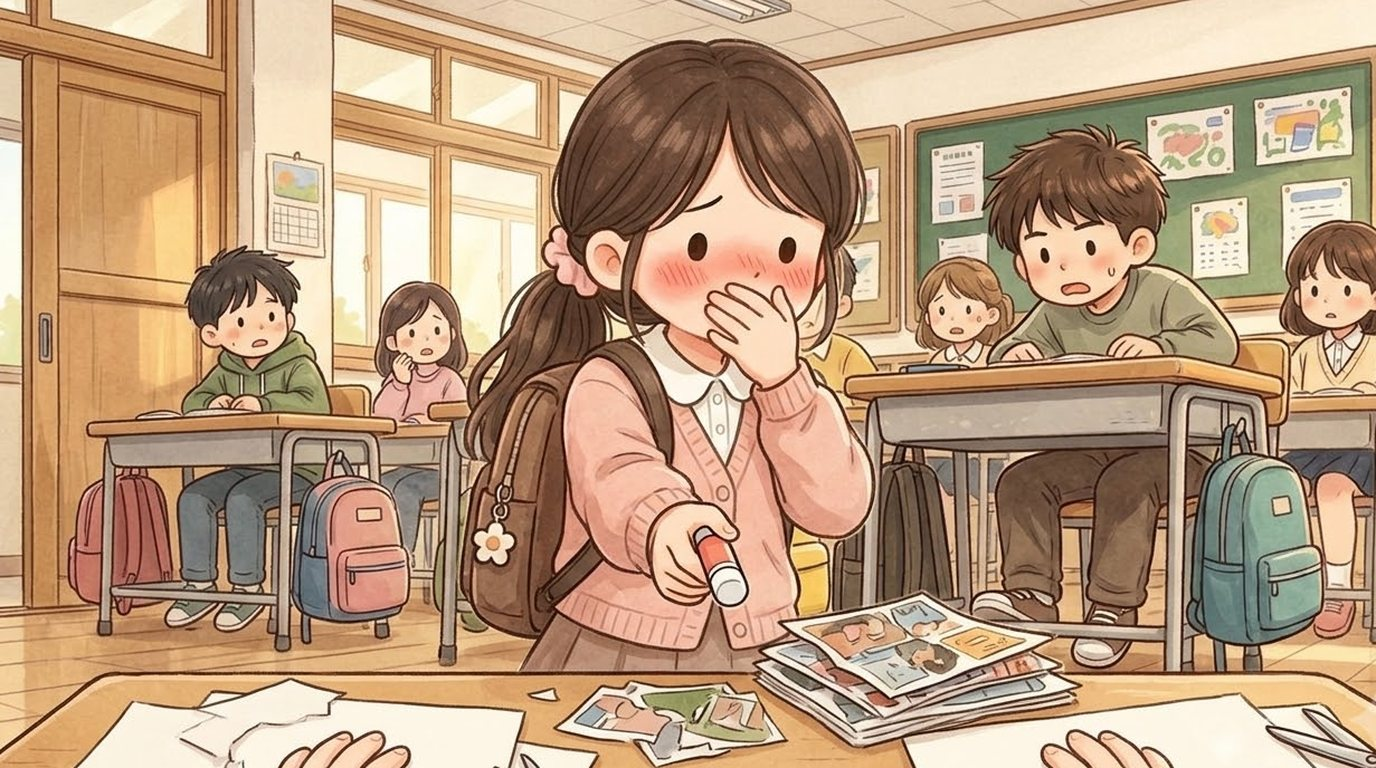
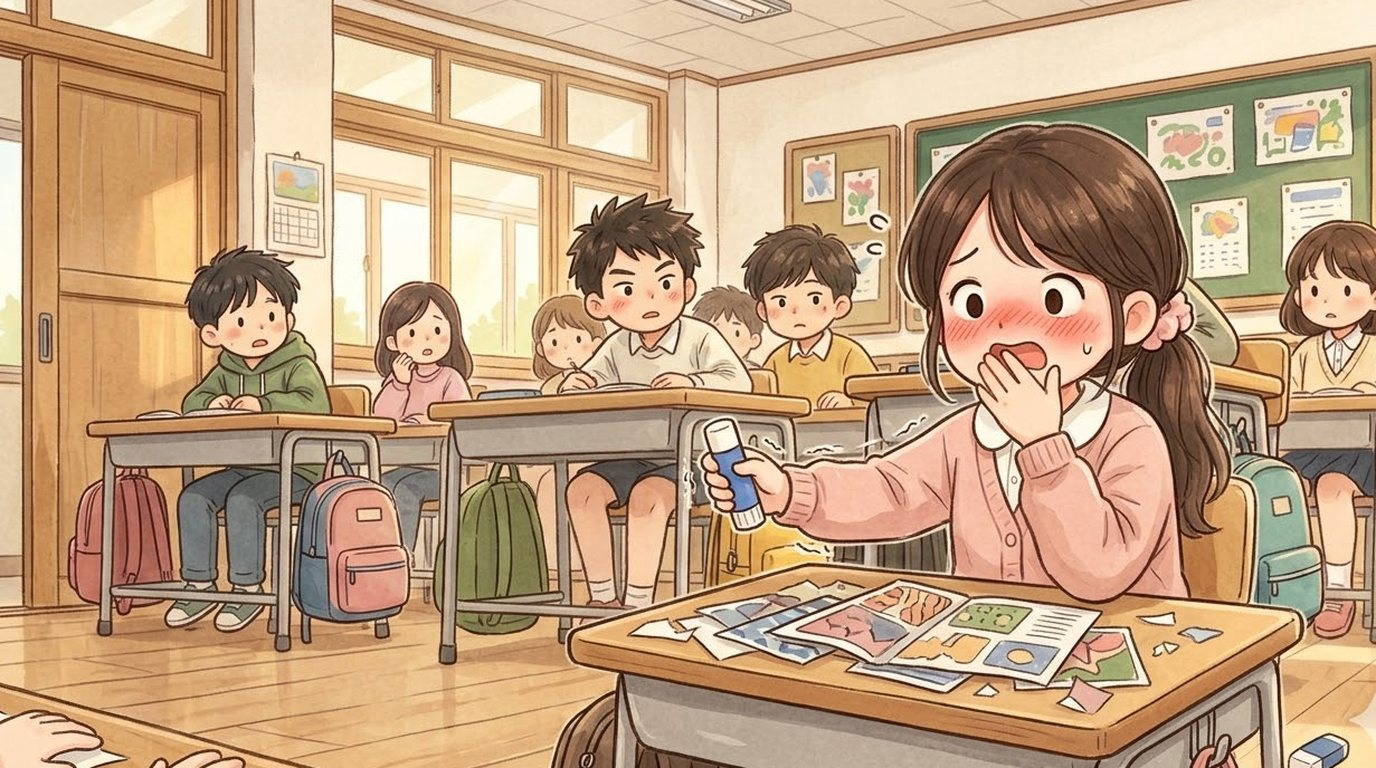
Yuna: 14 situation pictures for meetings 1-6 (pencil-case shop, poster group, chores, swings, eyes closed, reading) and redrawn highlight pictures for meetings 10 and 12 (no backpack in class or at break)

diff --git a/index.html b/index.html
@@ -119,14 +119,14 @@ body,button{word-break:keep-all;overflow-wrap:break-word}
 <div id="fader"></div>
 <script>
 // same address, newest version: if the page this phone has kept is older than the one online, fetch the new one and reopen
-const BUILD='1027193633';
+const BUILD='1027195552';
 try{fetch(location.pathname,{cache:'no-store'}).then(r=>r.text()).then(t=>{const m=t.match(/const BUILD='(\d+)'/);if(m&&m[1]!==BUILD&&sessionStorage.getItem('upd')!==m[1]){sessionStorage.setItem('upd',m[1]);fetch(location.pathname,{cache:'reload'}).then(()=>location.reload())}}).catch(()=>{})}catch(e){}
 </script>
-<script src="i18n.js?v=1027193633"></script>
-<script src="i18n_prologue_v2.js?v=1027193633"></script>
-<script src="day2/i18n_engine.js?v=1027193633"></script>
-<script src="day2/data.js?v=1027193633"></script>
-<script src="day3/data.js?v=1027193633"></script>
+<script src="i18n.js?v=1027195552"></script>
+<script src="i18n_prologue_v2.js?v=1027195552"></script>
+<script src="day2/i18n_engine.js?v=1027195552"></script>
+<script src="day2/data.js?v=1027195552"></script>
+<script src="day3/data.js?v=1027195552"></script>
 <script>
 // ---------- data ----------
 const MW=1672,MH=941,KID=180;
@@ -531,43 +531,43 @@ function pickHero(){const m=document.getElementById('modal'),c=document.getEleme
  c.innerHTML=`<h2>${tr('괴짜교실 반장되기')}</h2><p>${tr('말 한마디 못 하는 전학생,<br>반장 선거에 나가다.')}</p><p style="margin-top:14px">${tr('누구로 할까요?')}</p>${(()=>{const s=loadSave();return s&&s.day>=2&&s.mode===UI+'-'+LANG?`<p><button class="big" id="cont">${tr(s.day+'일차부터 이어 하기')}</button></p>`:''})()}<div class="pick heroes"><button data-h="hero_f"><img src="faces/hero_f_smile.jpg" alt="여자 주인공"></button><button data-h="hero_m"><img src="faces/hero_m_smile.jpg" alt="남자 주인공"></button></div>`;
  m.classList.add('on');{const cb=document.getElementById('cont');if(cb)cb.onclick=()=>{const s=loadSave();HERO=s.hero;Object.assign(HEART,s.heart||{});(s.found||[]).forEach(k=>FOUND.add(k));HEART_D1={...HEART};chime();(typeof contGame==='function'?contGame(s):startDay(Math.min(s.day,Object.keys(window.D3||{}).length?3:2)))}}c.querySelectorAll('.pick button').forEach(b=>b.onclick=()=>{HERO=b.dataset.h;m.classList.remove('on');chime();bgm('day');load('home_am');say([['nar','','이사 온 다음 날 아침. 아직 풀지 못한 상자들이 쌓여 있다.'],['think','sad','(오늘부터 새 학교야. 여기 말도 아직 서툰데…….)'],['think','smile','({m}한테 인사하고 학교 가야지.)']],morning)})}
 </script>
-<script src="day2/engine.js?v=1027193633"></script>
-<script src="day2/ep_minho.js?v=1027193633"></script>
-<script src="day2/i18n_meet.js?v=1027193633"></script>
-<script src="day2/meet.js?v=1027193633"></script>
-<script src="day2/ep_sua.js?v=1027193633"></script>
-<script src="day2/i18n_sua.js?v=1027193633"></script>
-<script src="day2/ep_hangyeol.js?v=1027193633"></script>
-<script src="day2/i18n_hangyeol.js?v=1027193633"></script>
-<script src="day2/ep_siwoo.js?v=1027193633"></script>
-<script src="day2/i18n_siwoo.js?v=1027193633"></script>
-<script src="day2/ep_haram.js?v=1027193633"></script>
-<script src="day2/i18n_haram.js?v=1027193633"></script>
-<script src="day2/ep_jiho.js?v=1027193633"></script>
-<script src="day2/i18n_jiho.js?v=1027193633"></script>
-<script src="day2/ep_hyeeun.js?v=1027193633"></script>
-<script src="day2/i18n_hyeeun.js?v=1027193633"></script>
-<script src="day2/ep_haneul.js?v=1027193633"></script>
-<script src="day2/i18n_haneul.js?v=1027193633"></script>
-<script src="day2/ep_junho.js?v=1027193633"></script>
-<script src="day2/i18n_junho.js?v=1027193633"></script>
-<script src="day2/ep_yuna.js?v=1027193633"></script>
-<script src="day2/i18n_yuna.js?v=1027193633"></script>
-<script src="day2/ep_yena.js?v=1027193633"></script>
-<script src="day2/i18n_yena.js?v=1027193633"></script>
-<script src="day2/ep_haeun.js?v=1027193633"></script>
-<script src="day2/i18n_haeun.js?v=1027193633"></script>
-<script src="day2/ep_youngmin.js?v=1027193633"></script>
-<script src="day2/i18n_youngmin.js?v=1027193633"></script>
-<script src="day2/ep_seah.js?v=1027193633"></script>
-<script src="day2/i18n_seah.js?v=1027193633"></script>
-<script src="day2/ep_jihoon.js?v=1027193633"></script>
-<script src="day2/i18n_jihoon.js?v=1027193633"></script>
-<script src="words_ja_ru.js?v=1027193633"></script>
-<script src="day2/mybag.js?v=1027193633"></script>
-<script src="day2/spots.js?v=1027193633"></script>
-<script src="day2/textfit.js?v=1027193633"></script>
-<script src="day2/tester.js?v=1027193633"></script>
+<script src="day2/engine.js?v=1027195552"></script>
+<script src="day2/ep_minho.js?v=1027195552"></script>
+<script src="day2/i18n_meet.js?v=1027195552"></script>
+<script src="day2/meet.js?v=1027195552"></script>
+<script src="day2/ep_sua.js?v=1027195552"></script>
+<script src="day2/i18n_sua.js?v=1027195552"></script>
+<script src="day2/ep_hangyeol.js?v=1027195552"></script>
+<script src="day2/i18n_hangyeol.js?v=1027195552"></script>
+<script src="day2/ep_siwoo.js?v=1027195552"></script>
+<script src="day2/i18n_siwoo.js?v=1027195552"></script>
+<script src="day2/ep_haram.js?v=1027195552"></script>
+<script src="day2/i18n_haram.js?v=1027195552"></script>
+<script src="day2/ep_jiho.js?v=1027195552"></script>
+<script src="day2/i18n_jiho.js?v=1027195552"></script>
+<script src="day2/ep_hyeeun.js?v=1027195552"></script>
+<script src="day2/i18n_hyeeun.js?v=1027195552"></script>
+<script src="day2/ep_haneul.js?v=1027195552"></script>
+<script src="day2/i18n_haneul.js?v=1027195552"></script>
+<script src="day2/ep_junho.js?v=1027195552"></script>
+<script src="day2/i18n_junho.js?v=1027195552"></script>
+<script src="day2/ep_yuna.js?v=1027195552"></script>
+<script src="day2/i18n_yuna.js?v=1027195552"></script>
+<script src="day2/ep_yena.js?v=1027195552"></script>
+<script src="day2/i18n_yena.js?v=1027195552"></script>
+<script src="day2/ep_haeun.js?v=1027195552"></script>
+<script src="day2/i18n_haeun.js?v=1027195552"></script>
+<script src="day2/ep_youngmin.js?v=1027195552"></script>
+<script src="day2/i18n_youngmin.js?v=1027195552"></script>
+<script src="day2/ep_seah.js?v=1027195552"></script>
+<script src="day2/i18n_seah.js?v=1027195552"></script>
+<script src="day2/ep_jihoon.js?v=1027195552"></script>
+<script src="day2/i18n_jihoon.js?v=1027195552"></script>
+<script src="words_ja_ru.js?v=1027195552"></script>
+<script src="day2/mybag.js?v=1027195552"></script>
+<script src="day2/spots.js?v=1027195552"></script>
+<script src="day2/textfit.js?v=1027195552"></script>
+<script src="day2/tester.js?v=1027195552"></script>
 <script>
 // the goal shows big for a few seconds, then folds into a small pill (tap it to open it again)
 {const g=document.getElementById('goal');let t=null;const big=()=>{g.classList.remove('mini');clearTimeout(t);t=setTimeout(()=>g.classList.add('mini'),4000)};

diff --git a/day2/ep_yuna.js b/day2/ep_yuna.js
@@ -1,5 +1,5 @@
 // 정유나 — built by build_yu.sh from p1–p4.js (see the header below)
-window.YU_HAVE=new Set(['yuna_01','yuna_02','yuna_03','yuna_04','yuna_05','yuna_06','yuna_07','yuna_08','yuna_09','yuna_10','yuna_11','yuna_12','yuna_13','yuna_14','yuna_15']);
+window.YU_HAVE=new Set(['yuna_01','yuna_01a','yuna_01c','yuna_02','yuna_02a','yuna_02b','yuna_02c','yuna_03','yuna_03a','yuna_03b','yuna_03c','yuna_04','yuna_04b','yuna_04c','yuna_05','yuna_05a','yuna_05b','yuna_05c','yuna_06','yuna_06a','yuna_06b','yuna_07','yuna_08','yuna_09','yuna_10','yuna_11','yuna_12','yuna_13','yuna_14','yuna_15']);
 // 정유나 — scenes by meeting (Day N = the Nth meeting with Yuna; meeting 1 = Day 2). Source: 괴짜교실_시나리오_개정작업/02_인물별_시나리오/정유나_Day2-16R_신규.md
 // Same format as ep_hyeeun.js (loaded after ep_hyeeun.js). Replaces Yuna's calendar Day 2 scene.
 // Faces: 'forced' = a smile with the mouth only (faces/yuna_forced.jpg; the hero has one too for Day 14 and 16R), 'laugh' = she smiles with her eyes too.
